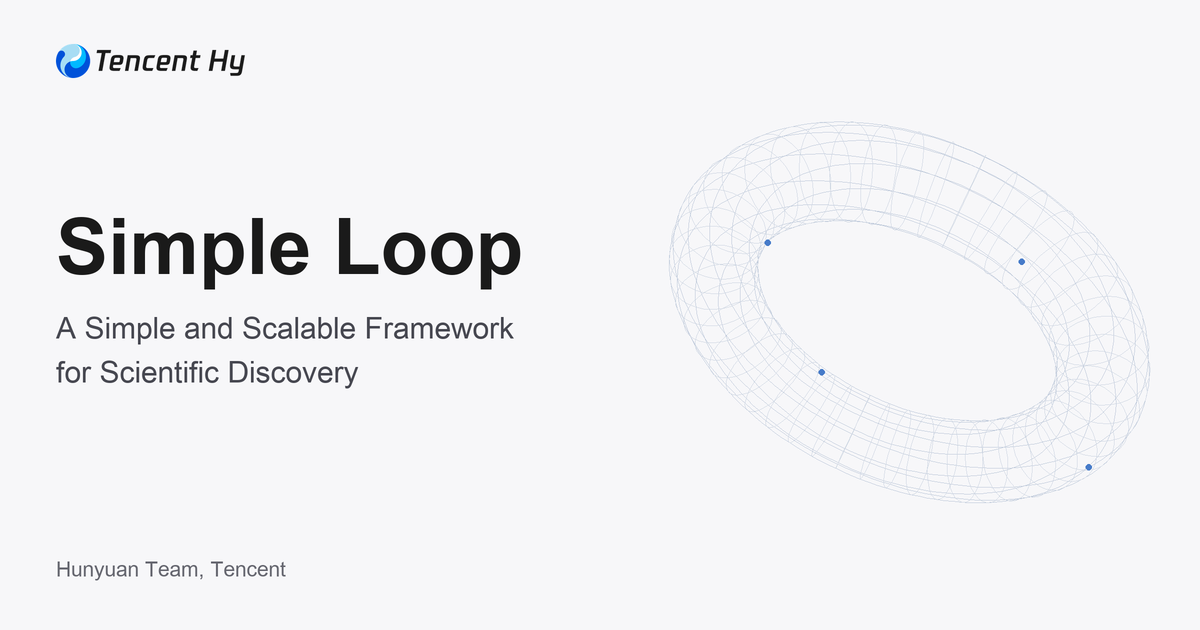
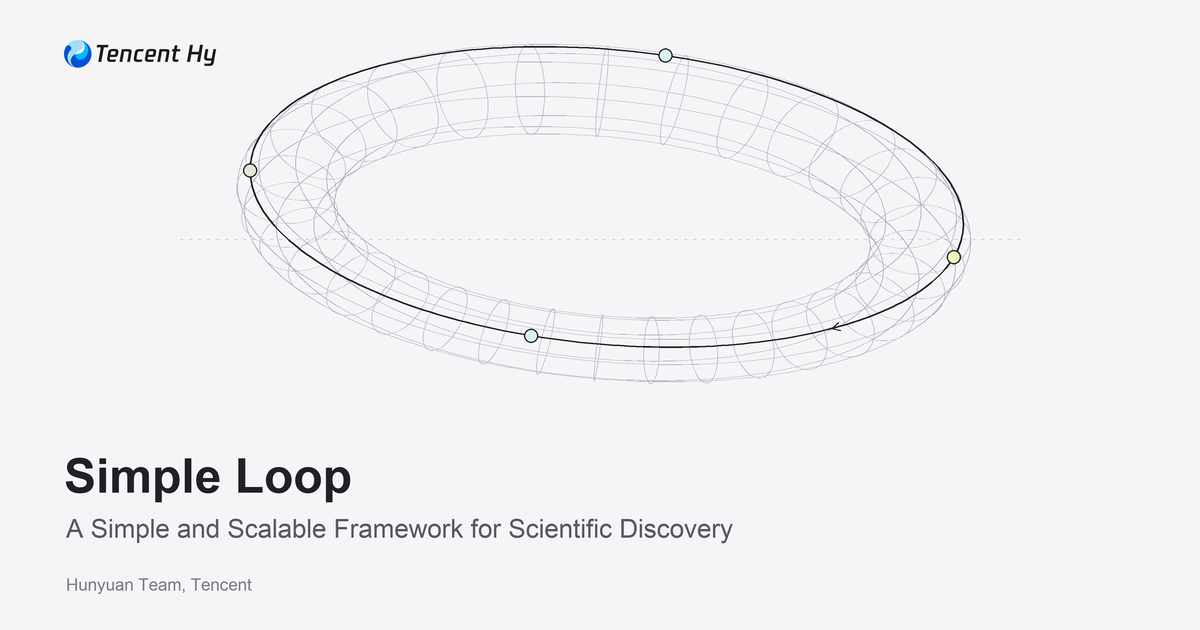
update

diff --git a/index.html b/index.html
@@ -14,16 +14,16 @@
     <meta property="og:url" content="https://simple-loop.github.io/">
     <meta property="og:site_name" content="Simple Loop">
     <meta property="og:locale" content="en_US">
-    <meta property="og:image" content="https://simple-loop.github.io/assets/social/simple-loop.png">
+    <meta property="og:image" content="https://simple-loop.github.io/assets/social/simple-loop.png?v=2">
     <meta property="og:image:type" content="image/png">
     <meta property="og:image:width" content="1200">
     <meta property="og:image:height" content="630">
-    <meta property="og:image:alt" content="Simple Loop — A Simple and Scalable Framework for Scientific Discovery, with a blue wireframe loop.">
+    <meta property="og:image:alt" content="Simple Loop — A Simple and Scalable Framework for Scientific Discovery, with a geometric wireframe loop and pastel nodes.">
     <meta name="twitter:card" content="summary_large_image">
     <meta name="twitter:title" content="Simple Loop: A Simple and Scalable Framework for Scientific Discovery">
     <meta name="twitter:description" content="Simple Loop: A Simple and Scalable Framework for Scientific Discovery, by the Hunyuan Team at Tencent (Tencent Hy).">
-    <meta name="twitter:image" content="https://simple-loop.github.io/assets/social/simple-loop.png">
-    <meta name="twitter:image:alt" content="Simple Loop — A Simple and Scalable Framework for Scientific Discovery, with a blue wireframe loop.">
+    <meta name="twitter:image" content="https://simple-loop.github.io/assets/social/simple-loop.png?v=2">
+    <meta name="twitter:image:alt" content="Simple Loop — A Simple and Scalable Framework for Scientific Discovery, with a geometric wireframe loop and pastel nodes.">
     <script type="application/ld+json">
 {
   "@context": "https://schema.org",
@@ -69,7 +69,7 @@
       },
       "primaryImageOfPage": {
         "@type": "ImageObject",
-        "url": "https://simple-loop.github.io/assets/social/simple-loop.png",
+        "url": "https://simple-loop.github.io/assets/social/simple-loop.png?v=2",
         "width": 1200,
         "height": 630
       }
@@ -89,7 +89,7 @@
         "@type": "Thing",
         "name": "Scientific discovery"
       },
-      "image": "https://simple-loop.github.io/assets/social/simple-loop.png",
+      "image": "https://simple-loop.github.io/assets/social/simple-loop.png?v=2",
       "mainEntityOfPage": {
         "@id": "https://simple-loop.github.io/#webpage"
       }

diff --git a/scripts/render-social-card.py b/scripts/render-social-card.py
@@ -1,57 +1,76 @@
 # /// script
 # dependencies = ["Pillow"]
 # ///
-"""Render the existing Simple Loop identity for link previews.
+"""Render a geometric Simple Loop cover in the Hy research-card style.
 
 Run: uv run scripts/render-social-card.py
-The wireframe follows the torus projection used in loop.js.
+The decorative wireframe follows the torus projection used in loop.js.
 """
 from pathlib import Path
-from math import sin, cos, pi
+from math import sin, cos, pi, hypot
 from PIL import Image, ImageDraw, ImageFont, ImageOps
 
 ROOT = Path(__file__).resolve().parents[1]
-SCALE = 2
+SCALE = 3
+BG = '#f5f5f7'
+INK = '#202125'
 FONT_OPTIONS = [
     (Path('/System/Library/Fonts/Supplemental/Arial.ttf'), Path('/System/Library/Fonts/Supplemental/Arial Bold.ttf')),
     (Path('/usr/share/fonts/truetype/dejavu/DejaVuSans.ttf'), Path('/usr/share/fonts/truetype/dejavu/DejaVuSans-Bold.ttf')),
 ]
 REGULAR, BOLD = next(pair for pair in FONT_OPTIONS if all(p.exists() for p in pair))
-canvas = Image.new('RGB', (1200 * SCALE, 630 * SCALE), '#f7f7f9')
+canvas = Image.new('RGB', (1200 * SCALE, 630 * SCALE), BG)
 draw = ImageDraw.Draw(canvas)
 
 
-def text(x, y, value, size, bold=False, color='#1a1a1a'):
+def text(x, y, value, size, bold=False, color=INK):
     font = ImageFont.truetype(str(BOLD if bold else REGULAR), size * SCALE)
+    assert draw.textlength(value, font=font) <= 1072 * SCALE
     draw.text((x * SCALE, y * SCALE), value, font=font, fill=color)
 
 
 def project(u, v):
-    radius, tube, turn, tilt = 205, 45, .30, .87
+    radius, tube, turn, tilt = 315, 48, .22, 1.04
     x = (radius + tube * cos(v)) * cos(u)
     y = (radius + tube * cos(v)) * sin(u)
     z = tube * sin(v)
     ry, rz = y * cos(tilt) - z * sin(tilt), y * sin(tilt) + z * cos(tilt)
     rx, depth = x * cos(turn) + rz * sin(turn), -x * sin(turn) + rz * cos(turn)
-    perspective = 1400 / (1400 + depth)
-    return ((902 + (rx * .98 - ry * .19) * perspective) * SCALE,
-            (330 + (rx * .19 + ry * .98) * perspective) * SCALE)
+    perspective = 1800 / (1800 + depth)
+    return ((600 + rx * perspective) * SCALE,
+            (239 + ry * perspective * .80) * SCALE)
 
 
-for ring in range(12):
-    draw.line([project(step / 144 * 2 * pi, ring / 12 * 2 * pi) for step in range(145)], fill='#bec9da', width=1)
-for segment in range(48):
-    draw.line([project(segment / 48 * 2 * pi, step / 32 * 2 * pi) for step in range(33)], fill='#ced6e2', width=1)
-for dot in range(4):
-    x, y = project(.7 + dot * pi / 2, dot * 1.7)
-    r = 3 * SCALE
-    draw.ellipse((x-r, y-r, x+r, y+r), fill='#467bc9')
-logo = ImageOps.contain(Image.open(ROOT / 'assets/hy-logo.png').convert('RGBA'), (190 * SCALE, 36 * SCALE), Image.Resampling.LANCZOS)
-canvas.paste(logo, (56 * SCALE, 44 * SCALE), logo)
-text(56, 203, 'Simple Loop', 78, bold=True)
-text(56, 311, 'A Simple and Scalable Framework', 30, color='#464750')
-text(56, 355, 'for Scientific Discovery', 30, color='#464750')
-text(56, 557, 'Hunyuan Team, Tencent', 21, color='#65666f')
+def line(points, color, width=1):
+    draw.line(points, fill=color, width=max(1, round(width * SCALE)), joint='curve')
+
+
+# Faint construction axes and restrained mesh, with one clear closed path.
+for x in range(180, 1020, 9):
+    line([(x*SCALE,239*SCALE),((x+3)*SCALE,239*SCALE)], '#bfc2ca', .7)
+for ring in range(8):
+    line([project(step / 240 * 2 * pi, ring / 8 * 2 * pi) for step in range(241)], '#9ea2ac', .65)
+for segment in range(32):
+    line([project(segment / 32 * 2 * pi, step / 72 * 2 * pi) for step in range(73)], '#b2b5bd', .65)
+route = [project(step / 240 * 2 * pi, .55) for step in range(241)]
+line(route, INK, 1.7)
+for angle, color in [(0.25, '#f2f7bd'), (2.0, '#d8f1f5'), (3.5, '#e7e6d9'), (5.05, '#d8f1f5')]:
+    x, y = project(angle, .55)
+    r = 7 * SCALE
+    draw.ellipse((x-r, y-r, x+r, y+r), fill=color, outline=INK, width=round(1.3*SCALE))
+# A small tangent arrow makes the loop direction readable without adding labels.
+x,y = project(.95,.55)
+x2,y2 = project(.98,.55)
+dx,dy = x2-x,y2-y
+length = hypot(dx,dy)
+dx,dy = dx/length,dy/length
+line([(x-8*SCALE*dx-4*SCALE*dy,y-8*SCALE*dy+4*SCALE*dx),(x,y),
+      (x-8*SCALE*dx+4*SCALE*dy,y-8*SCALE*dy-4*SCALE*dx)], INK, 1.3)
+logo = ImageOps.contain(Image.open(ROOT / 'assets/hy-logo.png').convert('RGBA'), (153 * SCALE, 29 * SCALE), Image.Resampling.LANCZOS)
+canvas.paste(logo, (64 * SCALE, 40 * SCALE), logo)
+text(64, 449, 'Simple Loop', 48, bold=True)
+text(66, 514, 'A Simple and Scalable Framework for Scientific Discovery', 26, color='#555963')
+text(66, 575, 'Hunyuan Team, Tencent', 17, color='#787c85')
 output = ROOT / 'assets/social/simple-loop.png'
 output.parent.mkdir(exist_ok=True)
 canvas.resize((1200, 630), Image.Resampling.LANCZOS).save(output, optimize=True)
